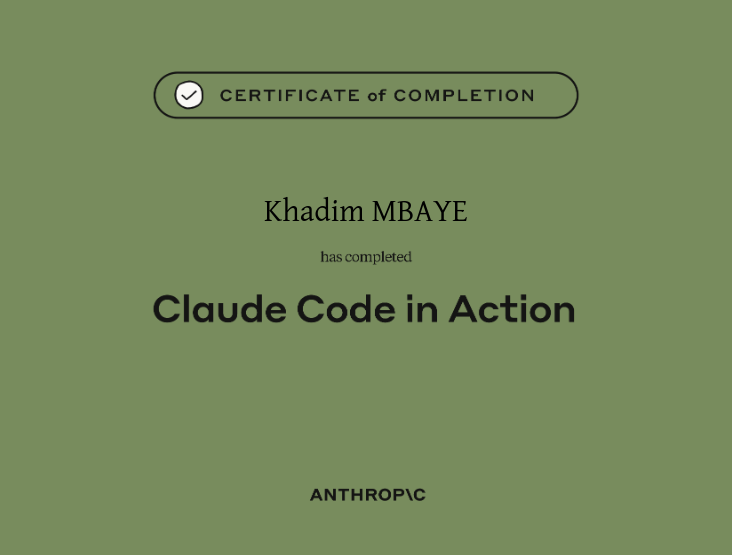
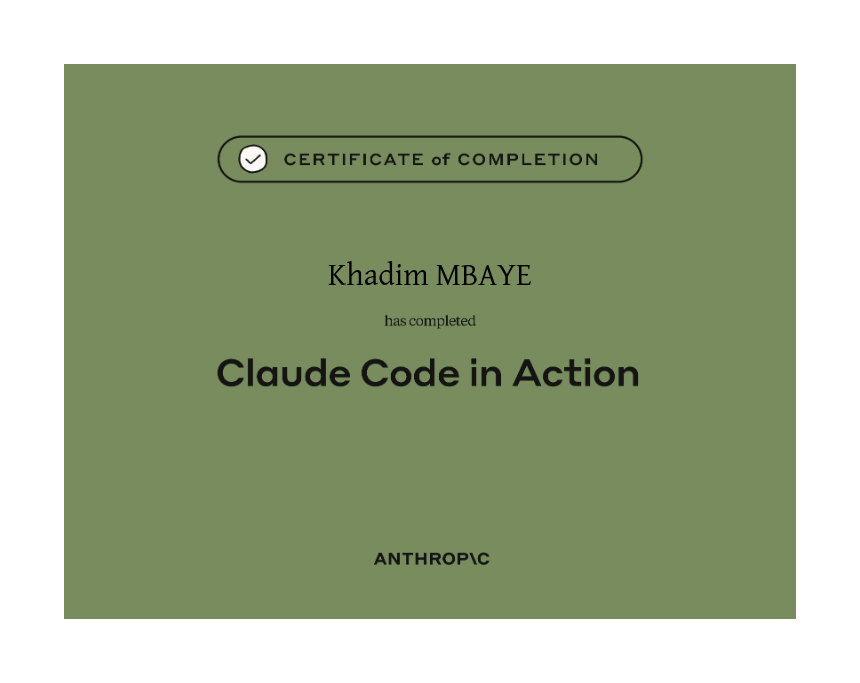
docs(readme): marge cuite dans les pixels autour des certifs
GitHub supprime les styles, donc la marge entre les deux colonnes du
tableau des certifs est cuite en bordure transparente (64px) dans les
PNG via -extent, compensée par width=400 dans le README.

diff --git a/README.md b/README.md
@@ -29,7 +29,7 @@ Le **Google AI Professional Certificate**, sur Coursera, est un parcours de 8 co
 <b>Google AI Professional Certificate</b><br>
 <sub>Coursera · Google</sub>
 <br><br>
-<img src="assets/certifications/google-ai.png" width="360" alt="Certificat Google AI Professional Certificate — Coursera">
+<img src="assets/certifications/google-ai.png" width="400" alt="Certificat Google AI Professional Certificate — Coursera">
 <br><br>
 <a href="https://coursera.org/share/c707ca1c396e3ef7590a9dfcde96db9d">Vérifier le certificat</a>
 </td>
@@ -37,7 +37,7 @@ Le **Google AI Professional Certificate**, sur Coursera, est un parcours de 8 co
 <b>Claude Code in Action</b><br>
 <sub>Anthropic · Skilljar</sub>
 <br><br>
-<img src="assets/certifications/claude-code.png" width="360" alt="Certificat Claude Code in Action — Anthropic Skilljar">
+<img src="assets/certifications/claude-code.png" width="400" alt="Certificat Claude Code in Action — Anthropic Skilljar">
 <br><br>
 <a href="https://verify.skilljar.com/c/f2cpwqerjn49">Vérifier le certificat</a>
 </td>
